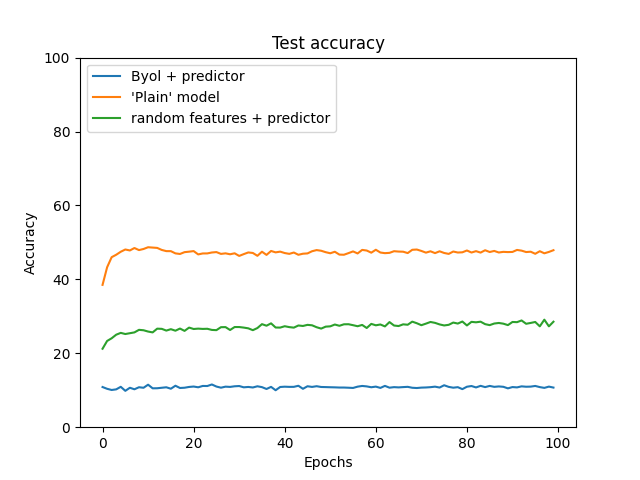
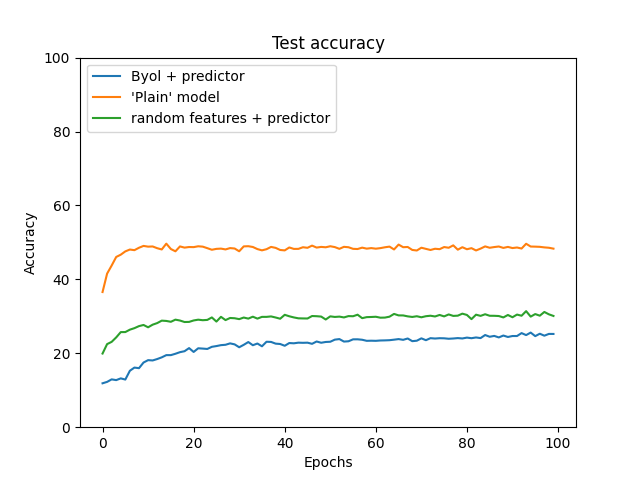
Stabled BYOT loss, but transfer learning not working

diff --git a/self-supervised-learning/data-2-vec/playground/train_byor_model.py b/self-supervised-learning/data-2-vec/playground/train_byor_model.py
@@ -9,8 +9,11 @@ from components.parameters import EPOCHS, BATCH_SIZE
 from components.best_model_parameters import BestModelParameters
 import torchvision
 from components.combined import CombinedModel
+import torch.nn.functional as F
 
 def train(lock):
+   # global EPOCHS
+   # EPOCHS *= 2
     device = torch.device('cuda') if torch.cuda.is_available() else torch.device('cpu')
 
     teacher = Net().to(device)
@@ -40,22 +43,29 @@ def train(lock):
     def learning_rate(epoch):
         if epoch < 10:
             return 0.3
-        elif epoch < 20:
+        elif epoch < 25:
             return 0.2
-        elif epoch < 30:
-            return 0.1
-        elif epoch < 40:
-            return 0.01
-        elif epoch < 50:
+        elif epoch < 35:
+            return 0.15
+        elif epoch < 45:
+            return 0.10
+        elif epoch < 55:
+            return 0.05
+        elif epoch < 65:
             return 0.001
         else:
             return 3e-4
 
     scheduler = torch.optim.lr_scheduler.LambdaLR(optimizer, lr_lambda=learning_rate)
 
-    weigh_schedule = WeighSchedule(
-        student_predictor,
-        teacher_predictor,
+    weigh_schedule_encoder = WeighSchedule(
+        student,
+        teacher,
+        EPOCHS
+    )
+    weigh_schedule_predictor = WeighSchedule(
+        predictor,
+        teacher_predictor_mlp,
         EPOCHS
     )
 
@@ -72,13 +82,19 @@ def train(lock):
     transform = transforms.Compose([
         transforms.ConvertImageDtype(torch.float),
         transforms.RandomErasing(
-            p=1,
+            p=0.3,
             ratio=(1, 1),
             scale=(0.03, 0.03)
         ),
         transforms.RandomHorizontalFlip(p=0.33),
         transforms.RandomVerticalFlip(p=0.33),
         transforms.RandomGrayscale(p=0.33),
+        transforms.RandomApply([
+            torchvision.transforms.GaussianBlur(9),
+        ], p=0.3),
+        transforms.RandomApply([
+            torchvision.transforms.RandomRotation(180),
+        ], p=0.3),
     ])
 
     grid_image = torchvision.utils.make_grid(
@@ -92,35 +108,42 @@ def train(lock):
     best_params = BestModelParameters()
 
     def loss(x, y):
-        norm = lambda x: torch.linalg.norm(x, axis=-1)
+#        norm = lambda x: torch.linalg.norm(x, axis=-1)
+        norm = lambda x: F.normalize(x, dim=1)
         norm_x, norm_y = norm(x), norm(y)
-        return -2. * torch.mean(torch.sum(x * y, axis=-1) / (norm_x * norm_y))
+ #       print(norm_x.shape)
+#        print(torch.sum(x * y, axis=1).shape)
+        return torch.mean(2 - 2. * torch.sum(norm_x * norm_y, dim=-1))
+#        return -2. * torch.mean(torch.sum(x * y, axis=-1) / (norm_x * norm_y))
 
-    for epoch in range(EPOCHS):
-        total_loss = torch.tensor(0.0, device=device)
-        for (X, _) in dataloader:
-            X = transform(X.to(device))
-            X_masked = transform(X.clone())
+    with open("logs/byol_loss.txt", "w") as file:
+        for epoch in range(EPOCHS):
+            total_loss = torch.tensor(0.0, device=device)
+            for (X, _) in dataloader:
+                X = transform(X.to(device))
+                X_masked = transform(X.clone())
 
-            value = loss(student_predictor(X), teacher_no_grad(X_masked))
-            value += loss(student_predictor(X_masked), teacher_no_grad(X))
+                value = loss(student_predictor(X), teacher_no_grad(X_masked))
+                value += loss(student_predictor(X_masked), teacher_no_grad(X))
 
-            optimizer.zero_grad()
-            value.backward()
-            optimizer.step()        
+                optimizer.zero_grad()
+                value.backward()
+                optimizer.step()
 
-            total_loss += value.item()
-            weigh_schedule.update(epoch)
-        lock.acquire()
-        try:
-            print(f"BYOR - epoch: {epoch}, total_loss: {total_loss}")
-        finally:
-            lock.release()
-        best_params.set_loss_param(
-            total_loss,
-            student.state_dict(),
-        )
-        scheduler.step()
+                total_loss += value.item()
+                weigh_schedule_predictor.update(epoch)
+                weigh_schedule_encoder.update(epoch)
+            lock.acquire()
+            try:
+                print(f"BYOR - epoch: {epoch}, total_loss: {total_loss}")
+            finally:
+                lock.release()
+            best_params.set_loss_param(
+                total_loss,
+                student.state_dict(),
+            )
+            file.write(f"{total_loss.item()}\n")
+            scheduler.step()
 
     torch.save(
         student.state_dict(),

diff --git a/self-supervised-learning/data-2-vec/playground/logs/plot.py b/self-supervised-learning/data-2-vec/playground/logs/plot.py
@@ -2,9 +2,9 @@ from optimization_utils.plotters.SimplePlot import SimplePlot
 from optimization_utils.plotters.LinePlot import LinePlot
 import os
 
-def load_accuracy(file_name, text):
+def load_accuracy(file_name, **kwargs):
     train_accuracy = list(map(float, filter(lambda x: len(x) > 0, open(file_name, "r").read().split("\n"))))
-    return LinePlot(y=train_accuracy, title="Test accuracy", legend=text, x_text="Epochs", y_text="Accuracy", y_min=0, y_max=100)
+    return LinePlot(y=train_accuracy, **kwargs)
 
 def plot_it():
     plot = SimplePlot()
@@ -14,14 +14,27 @@ def plot_it():
     )
     plot.plot(
         [
-            load_accuracy(path("train_model_with_byol_features.txt"), text="Byol + predictor"),
-            load_accuracy(path("train_model_without_features.txt"), text="'Plain' model"),
-            load_accuracy(path("train_model_with_random_features.txt"), text="random features + predictor")
+            load_accuracy(path("train_model_with_byol_features.txt"), title="Test accuracy", legend="Byol + predictor", x_text="Epochs", y_text="Accuracy", y_min=0, y_max=100),
+            load_accuracy(path("train_model_without_features.txt"), title="Test accuracy", legend="'Plain' model", x_text="Epochs", y_text="Accuracy", y_min=0, y_max=100),
+            load_accuracy(path("train_model_with_random_features.txt"), title="Test accuracy", legend="random features + predictor" , x_text="Epochs", y_text="Accuracy", y_min=0, y_max=100)
         ]
     )
-
     plot.save(
         path("accuracy.png")
+    )
+
+    plot = SimplePlot()
+    path = lambda file: os.path.join(
+        os.path.dirname(__file__),
+        file
+    )
+    plot.plot(
+        [
+            load_accuracy(path("byol_loss.txt"), title="Byol loss"),
+        ]
+    )
+    plot.save(
+        path("loss_byol.png")
     )
     print("created plot")
 

diff --git a/self-supervised-learning/data-2-vec/playground/components/WeightSchedule.py b/self-supervised-learning/data-2-vec/playground/components/WeightSchedule.py
@@ -7,15 +7,17 @@ class WeighSchedule:
 
         self.base = 0.996
         self.K = epochs
-        self.t = self.update(0)
+        self.t = self.update_t(0)
+
+    def update_t(self, epoch):
+        cosine = (torch.cos(
+            torch.tensor(torch.pi * epoch / self.K)
+        ) + 1) / 2
+        self.t = (1 - (1 - self.base)) * cosine
+        return self.t
 
     def update(self, epoch):
-        self.t = (1 - (1 - self.base)) * (
-            torch.cos(
-                torch.tensor(torch.pi * epoch / self.K
-                 + 1)
-            ) / 2
-        )
+        self.update_t(epoch)
         for teacher_param, student_param in zip(self.teacher.parameters(), self.student.parameters()):
             teacher_param.data.copy_(
                 self.t*teacher_param.data + (1 - self.t) * student_param.data

diff --git a/self-supervised-learning/data-2-vec/playground/train_all_subprocess.py b/self-supervised-learning/data-2-vec/playground/train_all_subprocess.py
@@ -2,7 +2,7 @@ from torch.multiprocessing import Process, Lock, Queue
 import torch.multiprocessing as mp
 from train_byor_model import train as train_byor
 from train_model_without_features import train as train_no_features
-from train_model_with_random_features import train as train_with_radom_featues
+from train_model_with_random_features import train as train_with_radom_features
 from train_model_with_byol_features import train_byol
 from logs.plot import plot_it
 
@@ -11,8 +11,8 @@ if __name__ == "__main__":
 
     models = [
         train_byor,
-#        train_no_features,
-#        train_with_radom_featues,
+ #       train_no_features,
+  #      train_with_radom_features,
     ]
 
     lock = Lock()

diff --git a/self-supervised-learning/data-2-vec/playground/train_model_with_byol_features.py b/self-supervised-learning/data-2-vec/playground/train_model_with_byol_features.py
@@ -18,8 +18,8 @@ def train_byol():
     set_no_grad(student)
 
     model = CombinedModel([
-            student,
-            predictor
+        student,
+        predictor
     ]).to(device)
 
     optimizer = torch.optim.Adam(
@@ -52,5 +52,5 @@ def train_byol():
                 total_loss += value.item()
 
             acc = eval_model(model)
-            print(f"epoch: {epoch}, total_loss: {total_loss}, acc: {acc}")
+            print(f"byor features model - epoch: {epoch}, total_loss: {total_loss}, acc: {acc}")
             file.write(f"{acc}\n")

diff --git a/self-supervised-learning/data-2-vec/playground/components/WeightScheduleTest.py b/self-supervised-learning/data-2-vec/playground/components/WeightScheduleTest.py
@@ -1,0 +1,12 @@
+from WeightSchedule import WeighSchedule
+
+def test_weight_schedule():
+    obj = WeighSchedule(None, None, 100)
+    t = obj.update_t(0).item()
+    assert (1 - t) < 0.005
+    t = obj.update_t(1).item()
+    assert 0 < t and t < 1
+    t = obj.update_t(94).item()
+    assert 0 < t and t < 1
+    t = obj.update_t(100).item()
+    assert t == 0

diff --git a/self-supervised-learning/data-2-vec/playground/components/parameters.py b/self-supervised-learning/data-2-vec/playground/components/parameters.py
@@ -1,9 +1,7 @@
 EPOCHS = 100
 BATCH_SIZE = 128
 
-
 def set_no_grad(model):
     for name, param in model.named_parameters():
-        #if "conv" in name:
-        param.requires_grad = False
-
+        if "conv" in name:
+            param.requires_grad = False

diff --git a/self-supervised-learning/data-2-vec/playground/train_model_without_features.py b/self-supervised-learning/data-2-vec/playground/train_model_without_features.py
@@ -14,8 +14,8 @@ def train(lock):
     predictor = Predictor()
 
     model = CombinedModel([
-            student,
-            predictor
+        student,
+        predictor
     ]).to(device)
 
     optimizer = torch.optim.Adam(

diff --git a/self-supervised-learning/data-2-vec/playground/train_model_with_random_features.py b/self-supervised-learning/data-2-vec/playground/train_model_with_random_features.py
@@ -16,8 +16,8 @@ def train(lock):
     set_no_grad(student)
 
     model = CombinedModel([
-            student,
-            predictor
+        student,
+        predictor
     ]).to(device)
 
     optimizer = torch.optim.Adam(
